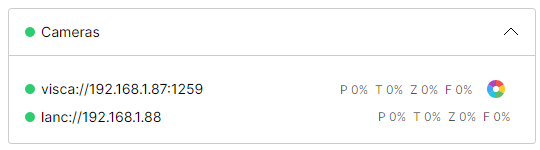
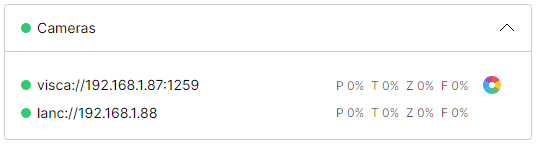
Keep camera status aligned beside color correction

diff --git a/tests/Cgf.CameraControl.App.Tests/CameraColorTests.cs b/tests/Cgf.CameraControl.App.Tests/CameraColorTests.cs
@@ -4,6 +4,7 @@ using Avalonia;
 using Avalonia.Controls;
 using Avalonia.Headless;
 using Avalonia.Input;
+using Avalonia.Media;
 using Avalonia.Styling;
 using Avalonia.Threading;
 using Avalonia.VisualTree;
@@ -78,6 +79,46 @@ public class CameraColorTests
                 main.Cameras.Add(model);
                 Dispatcher.UIThread.RunJobs();
                 Assert.False(FindWheel(window, model).IsVisible);
+            });
+        }
+    }
+
+    public class Layout : CameraColorTests
+    {
+        [Theory]
+        [InlineData(FlowDirection.LeftToRight, false)]
+        [InlineData(FlowDirection.LeftToRight, true)]
+        [InlineData(FlowDirection.RightToLeft, false)]
+        [InlineData(FlowDirection.RightToLeft, true)]
+        public async Task MovementStatusStaysAlignedWhenTheWheelAppearsOrDisappears(FlowDirection direction, bool dark)
+        {
+            await WithWindow((window, model, _, state) =>
+            {
+                window.FlowDirection = direction;
+                window.RequestedThemeVariant = dark ? ThemeVariant.Dark : ThemeVariant.Light;
+                var main = Assert.IsType<MainViewModel>(window.DataContext);
+                var camera = Substitute.For<ICameraConnection>();
+                camera.ConnectionString.Returns("lanc://a-camera-with-a-longer-address");
+                camera.WhenConnectedChanged.Returns(Observable.Return(true));
+                using var unsupported = new CameraViewModel(new ObservedCamera(camera));
+                main.Cameras.Add(unsupported);
+                Dispatcher.UIThread.RunJobs();
+                var initialX = MovementX(window, model);
+                Assert.Equal(initialX, MovementX(window, unsupported), 3);
+                Assert.False(FindWheel(window, model).IsVisible);
+                Assert.False(FindWheel(window, unsupported).IsVisible);
+
+                state.OnNext(new(true, 120, 140));
+                Dispatcher.UIThread.RunJobs();
+                Assert.True(FindWheel(window, model).IsVisible);
+                Assert.Equal(initialX, MovementX(window, model), 3);
+                Assert.Equal(initialX, MovementX(window, unsupported), 3);
+
+                model.IsConnected = false;
+                Dispatcher.UIThread.RunJobs();
+                Assert.False(FindWheel(window, model).IsVisible);
+                Assert.Equal(initialX, MovementX(window, model), 3);
+                Assert.Equal(initialX, MovementX(window, unsupported), 3);
             });
         }
     }
@@ -230,6 +271,14 @@ public class CameraColorTests
     private static Button FindWheel(MainWindow window, CameraViewModel model) =>
         window.GetVisualDescendants().OfType<Button>().Single(button =>
             button.Name == "ColorCorrectionButton" && ReferenceEquals(button.DataContext, model));
+
+    private static double MovementX(MainWindow window, CameraViewModel model)
+    {
+        var row = Assert.IsType<Grid>(FindWheel(window, model).Parent);
+        var status = row.Children.OfType<TextBlock>().Single(text => Grid.GetColumn(text) == 2);
+        Assert.True(status.Bounds.Width > 0);
+        return Assert.IsType<Point>(status.TranslatePoint(default, window)).X;
+    }
 
     private static void ReadColor(Subject<byte[]> replies, int red, int blue)
     {

diff --git a/docs/ColorCorrection.md b/docs/ColorCorrection.md
@@ -19,6 +19,7 @@ These new controls have not yet been verified on that camera. See
 ## Open the popover
 
 Expand **Cameras**, then click the color wheel beside the camera you want to adjust.
+Rows without color correction keep an empty wheel slot so camera movement status stays aligned.
 The address in the popover identifies the camera receiving the commands. Its pointer aims at
 that camera's button, including when the popover changes sides or shifts to fit the screen.
 
